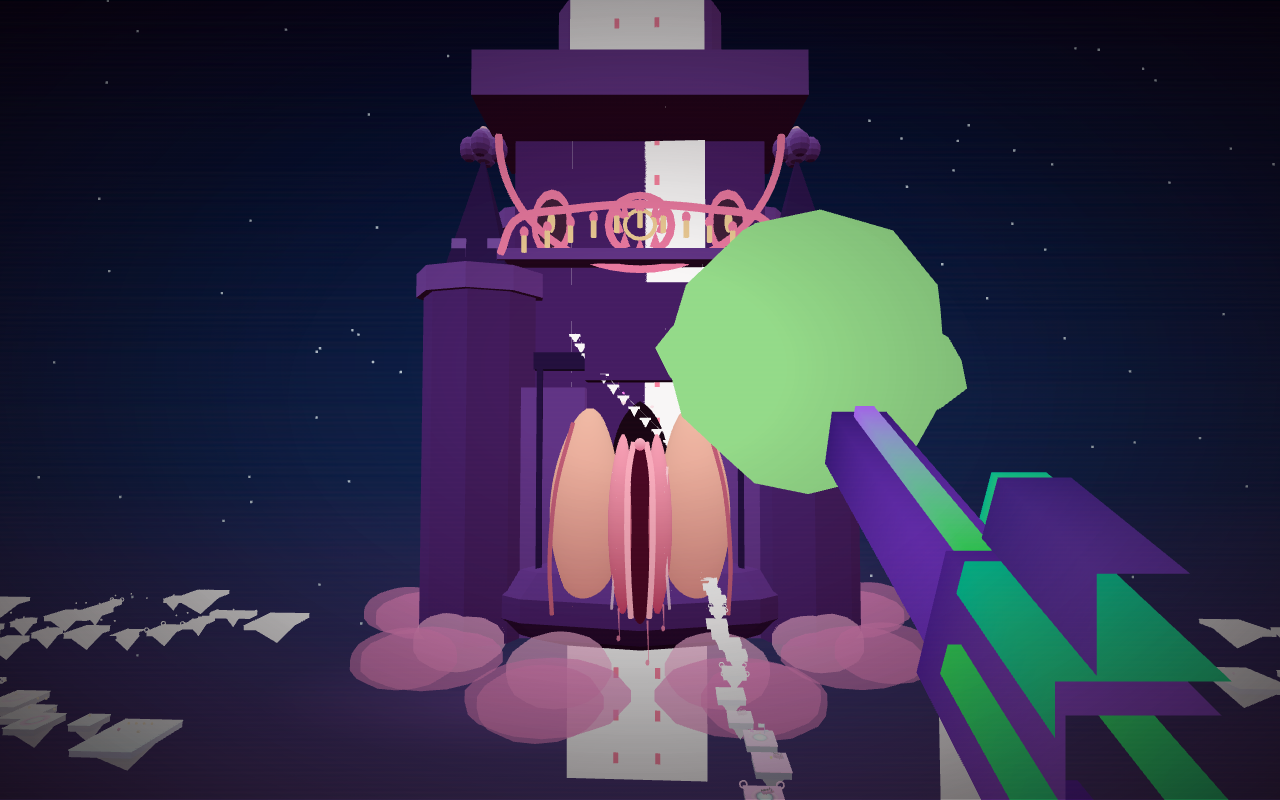
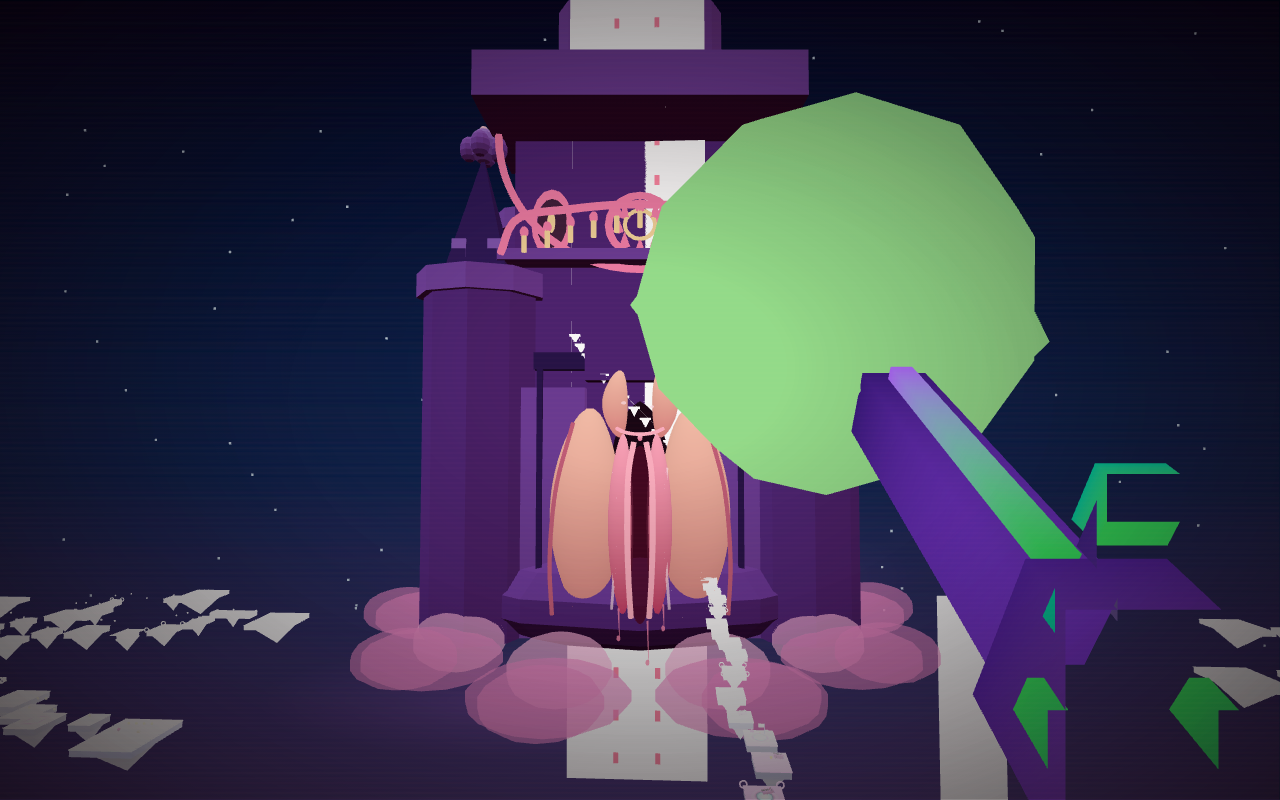
.

Changed region(s): [[0.4688, 0.0938, 0.9688, 1.0]]

diff --git a/index.html b/index.html
@@ -3347,22 +3347,23 @@ function commonsMidBuild(CX, CZ, nestNode, houseNode, shroomNode) {
         geo.setAttribute('color', new THREE.BufferAttribute(colors, 3)); return geo;
       };
       const softGlow = (opacity = 1) => new THREE.MeshBasicMaterial({ vertexColors: true, transparent: opacity < 1, opacity, toneMapped: false, fog: false });
-      const outerGeo = fleshGradient(0xf8c2ac, 0xd9827f);
-      const labiaGeo = fleshGradient(0xffa0bb, 0xc63862);
-      const foldGeo = fleshGradient(0xffc0d0, 0xe26d91);
+      const outerGeo = fleshGradient(0xffd0ae, 0xb95d69);
+      const labiaGeo = fleshGradient(0xffb2c2, 0x9e2248);
+      const foldGeo = fleshGradient(0xffd2d0, 0xd94d78);
       const outerFlesh = softGlow(), innerFlesh = softGlow(), foldLight = softGlow(), hoodMat = softGlow();
-      const foldSolid = glow(0xffb2c3), creaseSolid = glow(0xc35f79);
+      const foldSolid = glow(0xffc0c9), creaseSolid = glow(0xb94c68);
       const membrane = (side, bottom, top, maxWidth, centerX, centerBend, zBase, bulge, colors) => {
         const rows = 36, cols = 14, centerY = (bottom + top) * 0.5;
         const positions = [], vertexColors = [], indices = [];
-        const cTop = new THREE.Color(colors[0]), cBottom = new THREE.Color(colors[1]), color = new THREE.Color();
+        const cTop = new THREE.Color(colors[0]), cBottom = new THREE.Color(colors[1]), color = new THREE.Color(), warmRim = new THREE.Color(0xffd2ad), coolShadow = new THREE.Color(0x8d274f);
         for (let iy = 0; iy <= rows; iy++) {
           const t = iy / rows, y = bottom + (top - bottom) * t, taper = Math.pow(Math.sin(Math.PI * t), 0.62);
           const halfWidth = maxWidth * (0.1 + 0.9 * taper), cx = side * (centerX + centerBend * Math.sin(Math.PI * t));
           for (let ix = 0; ix <= cols; ix++) {
             const u = ix / cols * 2 - 1, rounded = Math.sqrt(Math.max(0, 1 - u * u));
             positions.push(cx + side * u * halfWidth, y - centerY, bulge * taper * rounded);
-            color.copy(cBottom).lerp(cTop, t).multiplyScalar(0.88 + 0.12 * rounded);
+            const centerTint = 1 - Math.min(1, Math.abs(u) * 1.35);
+            color.copy(cBottom).lerp(cTop, t).lerp(warmRim, Math.pow(rounded, 5) * 0.22).lerp(coolShadow, centerTint * 0.12).multiplyScalar(0.86 + 0.14 * rounded);
             vertexColors.push(color.r, color.g, color.b);
             if (iy < rows && ix < cols) {
               const a = iy * (cols + 1) + ix, b = a + cols + 1;
@@ -3391,9 +3392,9 @@ function commonsMidBuild(CX, CZ, nestNode, houseNode, shroomNode) {
       cleft.position.set(0, 0, 46.5); cleft.userData.noCull = true; g.add(cleft);
       // Broad, continuous membranes curve around the entrance; the inner edges taper into the cleft rather than ending as separate sausage shapes.
       for (const side of [-1, 1]) {
-        const outerLip = addMembrane(side, 6, 64, 9.4, 13.2, 1.2, 34.2, 12.5, [0xf8c2ac, 0xd9827f], outerFlesh);
+        const outerLip = addMembrane(side, 6, 64, 9.4, 13.2, 1.2, 34.2, 12.5, [0xffd0ae, 0xb95d69], outerFlesh);
         entranceFolds.push({ mesh: outerLip, x: 0, y: 35, z: 34.2, sx: 1, sy: 1, sz: 1, lift: 0.3 });
-        const innerLip = addMembrane(side, 10, 57, 3.2, 4.2, 0.65, 43.4, 6.2, [0xffa8be, 0xc63862], innerFlesh);
+        const innerLip = addMembrane(side, 10, 57, 3.2, 4.2, 0.65, 43.4, 6.2, [0xffb2c2, 0x9e2248], innerFlesh);
         entranceFolds.push({ mesh: innerLip, x: 0, y: 33.5, z: 43.4, sx: 1, sy: 1, sz: 1, lift: 0.2 });
         // Fine crease and moist inner rim use solid materials (vertex-color-only materials made these tubes render black).
         const innerRim = new THREE.CatmullRomCurve3([
@@ -3410,11 +3411,19 @@ function commonsMidBuild(CX, CZ, nestNode, houseNode, shroomNode) {
         const creaseMesh = new THREE.Mesh(new THREE.TubeGeometry(crease, 24, 0.55, 7, false), creaseSolid);
         creaseMesh.userData.noCull = true; g.add(creaseMesh);
       }
-      // The hood is a broad curved sheet that merges into the upper folds, not a detached spherical knob.
-      const mons = addMembrane(0, 53, 75, 12.5, 0, 0, 35, 8.5, [0xf8c2ac, 0xd9827f], hoodMat);
-      entranceFolds.push({ mesh: mons, x: 0, y: 64, z: 35, sx: 1, sy: 1, sz: 1, lift: 0.12 });
-      const clitoris = M(foldGeo, foldLight, 0, 54.5, 48.8, 1.35, 1.6, 0.85);              // small glans nestled into the hood at the cleft apex
-      entranceFolds.push({ mesh: clitoris, x: 0, y: 54.5, z: 48.8, sx: 1.35, sy: 1.6, sz: 0.85, lift: 0.15 });
+      // Two slim, swept hood folds join the upper labia in a soft V; leave the center open instead of capping it with a rounded dome.
+      for (const side of [-1, 1]) {
+        const hoodWing = addMembrane(side, 56, 74, 3.3, 5.2, 1.25, 39.5, 5.2, [0xffd0ae, 0xb95d69], hoodMat);
+        entranceFolds.push({ mesh: hoodWing, x: 0, y: 65, z: 39.5, sx: 1, sy: 1, sz: 1, lift: 0.12 });
+      }
+      const hoodEdgeCurve = new THREE.CatmullRomCurve3([
+        new THREE.Vector3(-5.8, 58.5, 46), new THREE.Vector3(-3.7, 57.5, 47.2), new THREE.Vector3(0, 57, 47.6),
+        new THREE.Vector3(3.7, 57.5, 47.2), new THREE.Vector3(5.8, 58.5, 46)
+      ]);
+      const hoodEdge = new THREE.Mesh(new THREE.TubeGeometry(hoodEdgeCurve, 20, 0.48, 7, false), foldSolid);
+      hoodEdge.userData.noCull = true; g.add(hoodEdge);
+      const clitoris = M(foldGeo, foldLight, 0, 56.2, 48.1, 0.62, 0.9, 0.4);              // small glans tucked under the narrow hood folds
+      entranceFolds.push({ mesh: clitoris, x: 0, y: 56.2, z: 48.1, sx: 0.62, sy: 0.9, sz: 0.4, lift: 0.15 });
       // Wet specular streaks trace the inner folds; droplets hang from the lower labia.
       const wet = new THREE.MeshBasicMaterial({ color: 0xffe0e7, transparent: true, opacity: 0.72, fog: false, toneMapped: false });
       const wetPink = new THREE.MeshBasicMaterial({ color: 0xff8fb0, transparent: true, opacity: 0.8, fog: false, toneMapped: false });
@@ -8426,12 +8435,14 @@ function hurtMonkeysNear(x, y, z, r, dmg, inFront = false) {
 // COOP rooms (host-chosen) skip this entirely: nothing a player does can damage another player.
 function eachPeer(fn) { if (!net.on) return; for (const p of net.peers.values()) if (p.alive && p.seen && p.pos.y > -900) fn(p); }
 function hitPeer(p, dmg) {
+  console.log('[PvP hitPeer]', { targetId: p.id, dmg, netMode, peerSeen: p.seen, peerAlive: p.alive });
   if (netMode === 'coop') return;                            // COOP room: friendly fire is off
   netSend({ t: 'pvp', to: p.id, d: +(dmg * (quadT > 0 ? 3 : 1)).toFixed(2) });     // QUAD triples player-vs-player damage too
   bloodBurst(new THREE.Vector3(p.pos.x, p.pos.y + 1, p.pos.z), dmg < 1 ? 3 : 14, 1.0); if (dmg >= 1) sfx.hit();
 }
 let pvpAcc = 0;
 function pvpReceive(d, from) {
+  console.log('[PvP pvpReceive]', { d, from, netMode, state, invuln, pvpAcc });
   if (netMode === 'coop') return;                            // COOP room: ignore any incoming player damage, even from stale clients
   if (state !== 'play' || invuln > 0) return;
   if (activeStartHubs().some(h => Math.abs(pos.x - h.x) < h.hw + 10 && Math.abs(pos.z - h.z) < h.hd + 10 && pos.y > TOP - 4)) return;      // home towers are safe from other players
@@ -10939,7 +10950,7 @@ const PEER_COLS = [0xe8452c, 0x2ac26a, 0xd6a82a, 0xb04ae8, 0x2ab0e8, 0xe84a9a, 0
 const num = v => (Number.isFinite(v) ? v : 0);
 const vec3 = a => new THREE.Vector3(num(a && a[0]), num(a && a[1]), num(a && a[2]));
 const esc = s => String(s).replace(/[&<>"']/g, c => ({ '&': '&amp;', '<': '&lt;', '>': '&gt;', '"': '&quot;', "'": '&#39;' }[c]));
-function netSend(m) { if (net.on && net.ws && net.ws.readyState === 1) net.ws.send(JSON.stringify(m)); }
+function netSend(m) { if (m?.t === 'pvp') console.log('[PvP SEND]', m); if (net.on && net.ws && net.ws.readyState === 1) net.ws.send(JSON.stringify(m)); }
 
 function makeLabel(text) {
   const c = document.createElement('canvas'); c.width = 256; c.height = 64;
@@ -11083,7 +11094,7 @@ function netMessage(m) {
     case 'rkt': { const o = vec3(m.o), d = vec3(m.d); const mesh = plasmaMesh(); mesh.position.copy(o).addScaledVector(d, 1.0); lvl.add(mesh);
       shots.push({ mesh, v: d.multiplyScalar(30), life: 4, hostile: false, vis: true }); break; }
     case 'boom': explode(vec3([m.x, m.y, m.z]), clamp(num(m.r), 1, 12), 0, m.o === 'enemy' ? 'remoteEnemy' : 'remote', typeof m.k === 'string' ? m.k : 'blast'); break;
-    case 'pvp': if ((m.to | 0) === net.id) pvpReceive(clamp(num(m.d), 0, 5), from); break;
+    case 'pvp': console.log('[PvP RECV]', m); if ((m.to | 0) === net.id) pvpReceive(clamp(num(m.d), 0, 5), from); break;
     case 'slam': {
       const x = num(m.x), z = num(m.z); shockRing({ x, y: 0, z }, 9, 0xff5533); shake = Math.max(shake, 0.8);
       if (state === 'play' && pos.y < 1.5 && Math.hypot(pos.x - x, pos.z - z) < 9.5) hurt(1, x, z);
